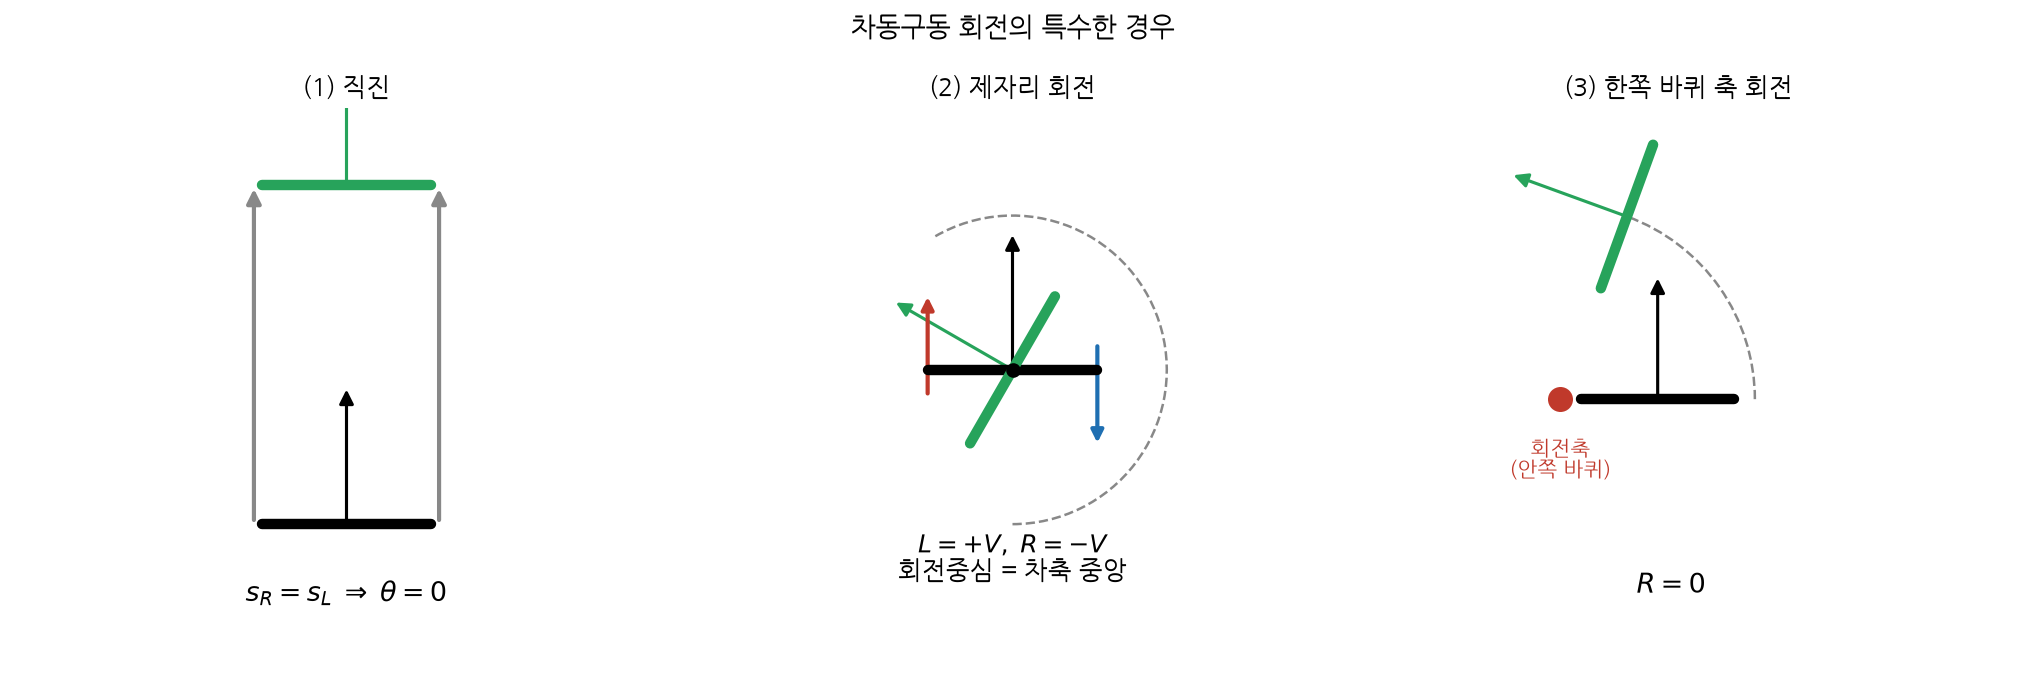
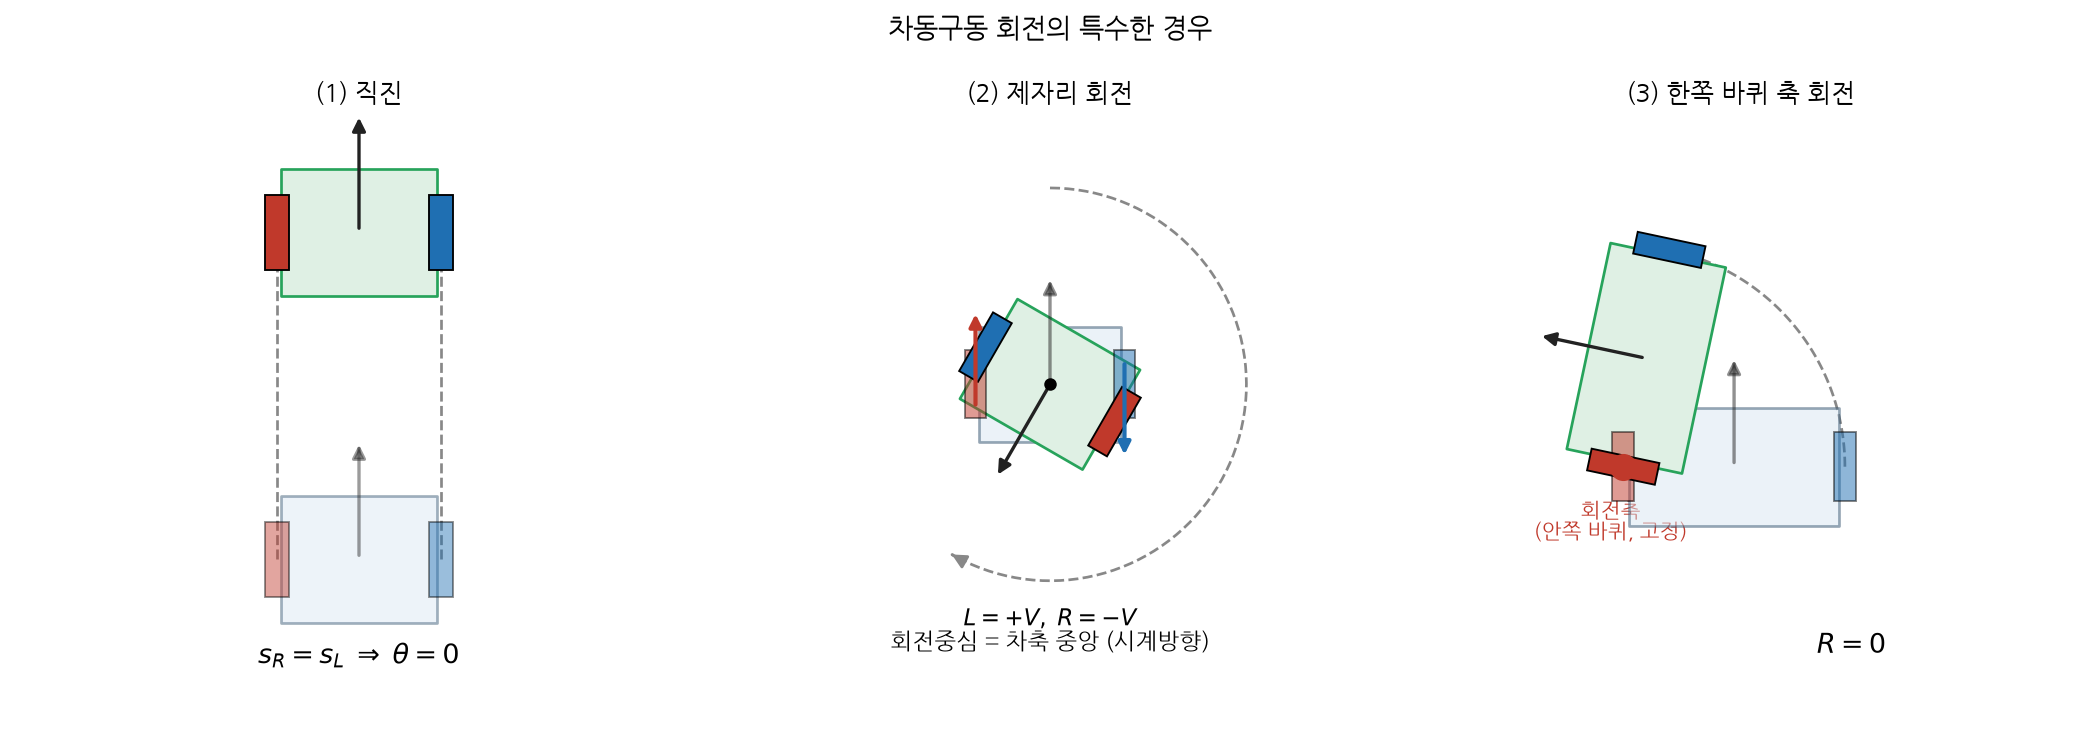
docs: rework special-cases fig (spin CW 210deg, pivot wheel) + micromouse style
(2) spin-in-place: dashed trajectory now 12 o'clock -> 7 o'clock clockwise
    (210 deg), green final pose points to 7 o'clock; wheel-velocity arrows show
    L=+V / R=-V (clockwise).
(3) pivot on one wheel: inner (left) wheel is the fixed pivot, so start and
    final share that wheel at one point; the dashed circle is the RIGHT wheel's
    path (radius = wheel base) and passes through the final pose's right wheel.
All three panels redrawn with the micromouse chassis + two coloured wheels +
heading-arrow style (matching Fig 1 v2).

Claude-Session: https://claude.ai/code/session_01WfeNkPr3YZ7fYGJkDvNY7b

diff --git a/MotionSim/docs/figures/make_geometry_figs.py b/MotionSim/docs/figures/make_geometry_figs.py
@@ -4,7 +4,7 @@ labels: math/English (Korean fonts unavailable). Outputs PNGs in this dir.
 """
 import numpy as np
 import matplotlib.pyplot as plt
-from matplotlib.patches import Wedge, FancyArrowPatch, Arc
+from matplotlib.patches import Wedge, FancyArrowPatch, Arc, Polygon
 import matplotlib.font_manager as fm
 import glob, os
 
@@ -132,62 +132,102 @@ def fig_derivation():
 
 
 # ======================================================= Fig 3: special cases
+def _rectpoly(c, along, across, L, W):
+    c = np.asarray(c, float)
+    return np.array([c + s1*L/2*along + s2*W/2*across
+                     for s1, s2 in [(1, 1), (1, -1), (-1, -1), (-1, 1)]])
+
+
+def mouse_sc(ax, center, heading_deg, base=1.1, alpha=1.0, body_c="#d9e6f2",
+             edge="#33536e", wL=RED, wR=BLUE, arrow=True):
+    """마이크로마우스(섀시+양 바퀴+진행화살표). center=차축 중점, heading=진행방향."""
+    h = np.array([np.cos(np.radians(heading_deg)), np.sin(np.radians(heading_deg))])
+    left = np.array([-h[1], h[0]])         # heading 기준 좌측
+    c = np.asarray(center, float)
+    ax.add_patch(Polygon(_rectpoly(c, h, left, 0.85, base*0.95), closed=True,
+                 facecolor=body_c, edgecolor=edge, lw=1.3, alpha=alpha, zorder=5,
+                 joinstyle="round"))
+    wl = c + base/2*left
+    wr = c - base/2*left
+    for wc, col in ((wl, wL), (wr, wR)):
+        ax.add_patch(Polygon(_rectpoly(wc, h, left, 0.5, 0.16), closed=True,
+                     facecolor=col, edgecolor="k", lw=0.9, alpha=alpha, zorder=7))
+    if arrow:
+        ax.add_patch(FancyArrowPatch(c, c + 0.8*h, arrowstyle="-|>",
+                     mutation_scale=13, color="#222", lw=1.6, alpha=alpha, zorder=8))
+    return wl, wr
+
+
 def fig_special():
-    fig, axes = plt.subplots(1, 3, figsize=(13.5, 4.6))
+    fig, axes = plt.subplots(1, 3, figsize=(14.0, 5.0))
+    BASE = 1.1
 
-    def robot(ax, cx, cy, ang, c="k", L=0.9, W=0.55):
-        # draw axle (wheels) perpendicular to heading 'ang'
-        dx, dy = np.cos(np.radians(ang)), np.sin(np.radians(ang))
-        px, py = -dy, dx
-        ax.plot([cx-px*W, cx+px*W], [cy-py*W, cy+py*W], color=c, lw=5,
-                solid_capstyle="round")
-        ax.add_patch(FancyArrowPatch((cx, cy), (cx+dx*L, cy+dy*L),
-                     arrowstyle="-|>", mutation_scale=14, color=c, lw=1.5))
-
-    # (1) straight : s_R = s_L -> theta = 0
+    # ---------------- (1) 직진 : s_R = s_L -> theta = 0 ----------------
     ax = axes[0]
-    for x in (-0.6, 0.6):
-        ax.add_patch(FancyArrowPatch((x, 0), (x, 2.2), arrowstyle="-|>",
-                     mutation_scale=14, color=GRAY, lw=2))
-    robot(ax, 0, 0, 90, c="k")
-    robot(ax, 0, 2.2, 90, c=GREEN)
-    ax.text(0, -0.5, r"$s_R = s_L \;\Rightarrow\; \theta = 0$", ha="center",
+    for x in (-BASE/2, BASE/2):                       # 양 바퀴 직선 궤적(동일 길이)
+        ax.plot([x, x], [0, 2.2], color=GRAY, lw=1.3, ls="--")
+        ax.add_patch(FancyArrowPatch((x, 2.0), (x, 2.25), arrowstyle="-|>",
+                     mutation_scale=12, color=GRAY, lw=1.3))
+    mouse_sc(ax, (0, 0), 90, base=BASE, alpha=0.45)
+    mouse_sc(ax, (0, 2.2), 90, base=BASE, body_c="#dff0e4", edge=GREEN)
+    ax.text(0, -0.7, r"$s_R = s_L \;\Rightarrow\; \theta = 0$", ha="center",
             fontsize=13)
     ax.set_title("(1) 직진", fontsize=12)
-    ax.set_xlim(-1.6, 1.6); ax.set_ylim(-0.9, 2.7)
+    ax.set_xlim(-1.7, 1.7); ax.set_ylim(-1.1, 3.0)
 
-    # (2) spin in place : L=+V, R=-V, center at axle midpoint
+    # ---------------- (2) 제자리 회전 : 시계방향 210도 ----------------
     ax = axes[1]
-    O = (0, 0)
-    ax.add_patch(Arc(O, 2.0, 2.0, theta1=-90, theta2=120, color=GRAY, lw=1.2,
-                     ls="--"))
-    robot(ax, 0, 0, 90, c="k")
-    robot(ax, 0, 0, 150, c=GREEN)
-    ax.plot(0, 0, "ko", ms=6)
-    # opposite wheel arrows
-    ax.add_patch(FancyArrowPatch((-0.55, -0.18), (-0.55, 0.5),
-                 arrowstyle="-|>", mutation_scale=12, color=RED, lw=2))
-    ax.add_patch(FancyArrowPatch((0.55, 0.18), (0.55, -0.5),
-                 arrowstyle="-|>", mutation_scale=12, color=BLUE, lw=2))
-    ax.text(0, -1.35, r"$L=+V,\; R=-V$" + "\n" + "회전중심 = 차축 중앙",
-            ha="center", fontsize=12)
+    O = np.array([0.0, 0.0])
+    rr = 1.45
+    # 궤적 점선: 12시(0도)에서 시계방향 210도(7시)까지.  clock->xy: x=rr sin, y=rr cos
+    phi = np.radians(np.linspace(0, 210, 160))
+    ax.plot(rr*np.sin(phi), rr*np.cos(phi), color=GRAY, lw=1.3, ls="--")
+    ax.add_patch(FancyArrowPatch((rr*np.sin(phi[-2]), rr*np.cos(phi[-2])),
+                 (rr*np.sin(phi[-1]), rr*np.cos(phi[-1])), arrowstyle="-|>",
+                 mutation_scale=14, color=GRAY, lw=1.4))      # 시계방향 표시
+    # 시작(검정, 12시) / 최종(초록, 7시=heading -120deg)
+    mouse_sc(ax, O, 90, base=BASE, alpha=0.5)
+    mouse_sc(ax, O, 90 - 210, base=BASE, body_c="#dff0e4", edge=GREEN)
+    ax.plot(*O, "ko", ms=5, zorder=9)
+    # 바퀴 속도 방향(L=+V 전진, R=-V 후진) -> 시계방향
+    ax.add_patch(FancyArrowPatch((-BASE/2, -0.18), (-BASE/2, 0.55),
+                 arrowstyle="-|>", mutation_scale=12, color=RED, lw=2, zorder=9))
+    ax.add_patch(FancyArrowPatch((BASE/2, 0.18), (BASE/2, -0.55),
+                 arrowstyle="-|>", mutation_scale=12, color=BLUE, lw=2, zorder=9))
+    ax.text(0, -1.95, r"$L=+V,\; R=-V$" + "\n" + "회전중심 = 차축 중앙 (시계방향)",
+            ha="center", fontsize=11)
     ax.set_title("(2) 제자리 회전", fontsize=12)
-    ax.set_xlim(-1.7, 1.7); ax.set_ylim(-1.9, 1.7)
+    ax.set_xlim(-2.0, 2.0); ax.set_ylim(-2.5, 2.0)
 
-    # (3) pivot on one wheel : R = 0
+    # ---------------- (3) 한쪽 바퀴 축 회전 : R = 0 ----------------
     ax = axes[2]
-    O = (-0.7, 0)                      # inner (left) wheel = pivot
-    ax.plot(*O, "o", color=RED, ms=11)
-    ax.add_patch(Arc(O, 2*1.4, 2*1.4, theta1=0, theta2=70, color=GRAY, lw=1.2,
-                     ls="--"))
-    robot(ax, 0, 0, 90, c="k")
-    ex, ey = O[0] + 1.4*np.cos(np.radians(70)), O[1] + 1.4*np.sin(np.radians(70))
-    robot(ax, ex, ey, 90+70, c=GREEN)
-    ax.text(-0.7, -0.55, "회전축\n(안쪽 바퀴)", ha="center", color=RED,
-            fontsize=10)
-    ax.text(0.1, -1.4, r"$R = 0$", ha="center", fontsize=13)
+    P = np.array([-0.55, -0.35])           # 안쪽(왼쪽) 바퀴 = 회전축 (고정)
+    Bp = 1.6                                # 이 패널 바퀴 간격(= 오른쪽바퀴 회전반경)
+    alpha_pivot = 78.0                      # 축 기준 회전각
+
+    def mouse_pivot(headeg, **kw):
+        # 왼쪽 바퀴가 P에 오도록 center 배치.  left = (-sin,cos)*... ; center = P - base/2*left
+        h = np.array([np.cos(np.radians(headeg)), np.sin(np.radians(headeg))])
+        left = np.array([-h[1], h[0]])
+        center = P + Bp/2*(-left)          # = P + base/2*right  (왼쪽바퀴=center+base/2*left=P)
+        return mouse_sc(ax, center, headeg, base=Bp, **kw)
+
+    # 점선 = 오른쪽 바퀴 궤적: 반경 Bp, 중심 P, 0도(오른쪽,3시)에서 alpha까지
+    th = np.radians(np.linspace(0, alpha_pivot, 120))
+    ax.plot(P[0] + Bp*np.cos(th), P[1] + Bp*np.sin(th), color=GRAY, lw=1.3, ls="--")
+    ax.add_patch(FancyArrowPatch(
+        (P[0]+Bp*np.cos(th[-2]), P[1]+Bp*np.sin(th[-2])),
+        (P[0]+Bp*np.cos(th[-1]), P[1]+Bp*np.sin(th[-1])),
+        arrowstyle="-|>", mutation_scale=14, color=GRAY, lw=1.4))
+    # 시작(검정, heading 90 = 차축이 +x) / 최종(초록, heading 90+alpha)
+    mouse_pivot(90, alpha=0.5)
+    mouse_pivot(90 + alpha_pivot, body_c="#dff0e4", edge=GREEN)
+    ax.plot(*P, "o", color=RED, ms=12, zorder=10)        # 고정 회전축(겹친 왼쪽바퀴)
+    ax.annotate("회전축\n(안쪽 바퀴, 고정)", P, textcoords="offset points",
+                xytext=(-6, -34), ha="center", color=RED, fontsize=10)
+    ax.text(1.1, -1.7, r"$R = 0$", ha="center", fontsize=13)
     ax.set_title("(3) 한쪽 바퀴 축 회전", fontsize=12)
-    ax.set_xlim(-1.8, 2.1); ax.set_ylim(-1.9, 2.1)
+    ax.set_xlim(-1.8, 2.4); ax.set_ylim(-2.2, 2.2)
 
     for ax in axes:
         ax.set_aspect("equal"); ax.axis("off")